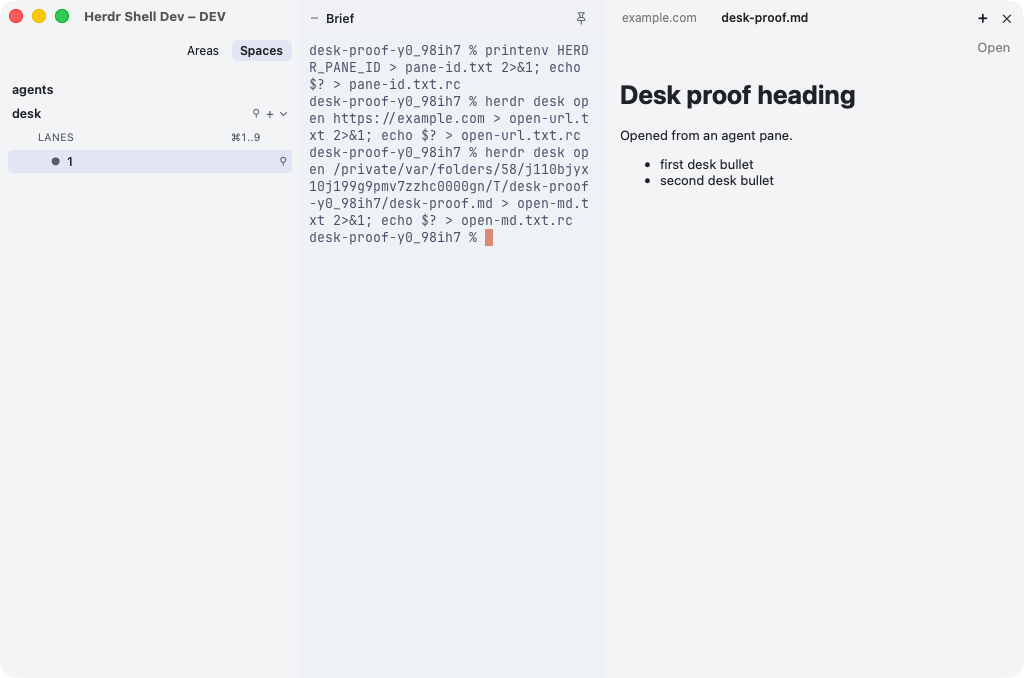
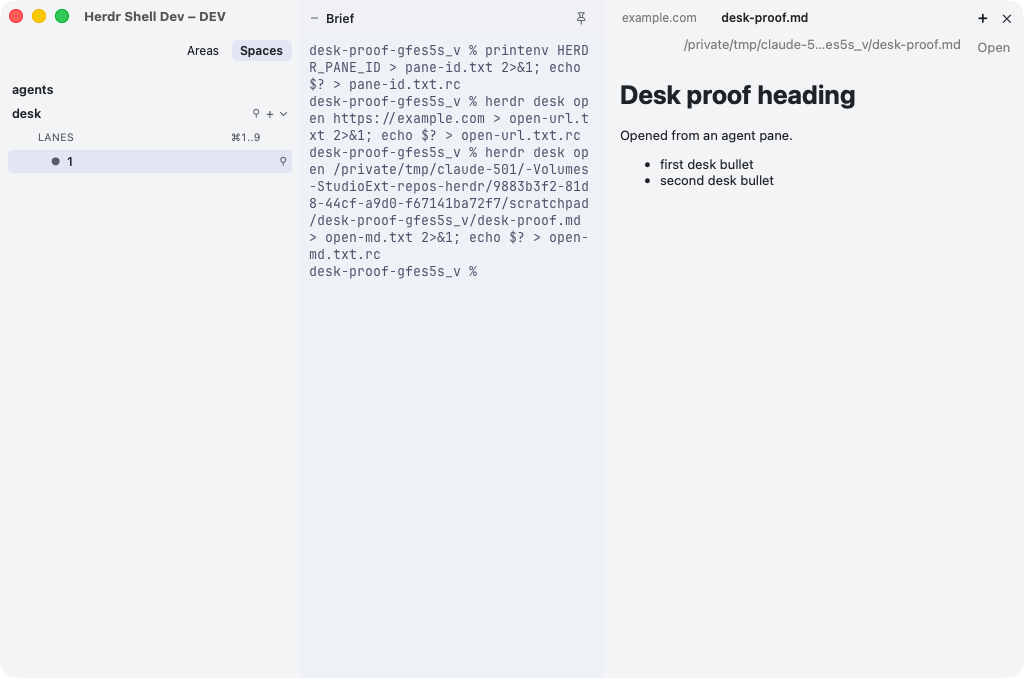
fix(shell): desk landings count per machine, handoff keeps pane focus, and file items show their path
A remote machine's first snapshot no longer opens docs for desks it
already had. A live handoff that renews a focused pane's terminal gives
focus to its replacement. File items show their path in the header, Open
waits for remote bytes, and the space check requires a hosted live
surface, rendered heading and list, and focus after handoff.

diff --git a/macos/HerdrShell/Sources/HerdrShell/DocPanel.swift b/macos/HerdrShell/Sources/HerdrShell/DocPanel.swift
@@ -27,6 +27,10 @@ final class DocPanelController: NSObject, WKNavigationDelegate {
     private let empty = NSTextField(labelWithString: "")
     private let urlField = DocURLField()
     private let address = DocURLField()
+    private let filePath = NSTextField(labelWithString: "")
+    private var renderedHeadings: [String] = []
+    private var renderedListItems: [String] = []
+    private var pendingOpenKey: String?
     private let web: DocWebView
     private var tabButtons: [NSButton] = []
     private var docs: [DocItem] = []
@@ -83,6 +87,13 @@ final class DocPanelController: NSObject, WKNavigationDelegate {
         urlField.target = self
         urlField.action = #selector(commitURL)
         urlField.onEscape = { [weak self] in self?.returnFocus() }
+        filePath.font = address.font
+        filePath.textColor = .secondaryLabelColor
+        filePath.lineBreakMode = .byTruncatingMiddle
+        filePath.isSelectable = true
+        filePath.isEditable = false
+        filePath.alignment = .left
+        filePath.isHidden = true
         address.isHidden = true
         address.placeholderString = "Address"
         address.target = self
@@ -113,6 +124,7 @@ final class DocPanelController: NSObject, WKNavigationDelegate {
         view.addSubview(empty)
         view.addSubview(urlField)
         view.addSubview(address)
+        view.addSubview(filePath)
         view.addSubview(back)
         view.addSubview(forward)
         view.addSubview(reload)
@@ -136,7 +148,8 @@ final class DocPanelController: NSObject, WKNavigationDelegate {
     func dump() -> [String: Any] {
         ["tabs": tabTitles, "active": active ?? NSNull(), "title": pageTitle, "text": pageText,
          "url": address.stringValue, "address_focused": address.currentEditor() != nil,
-         "focused": hasFocus]
+         "focused": hasFocus, "file_path": filePath.stringValue,
+         "h1": renderedHeadings, "li": renderedListItems]
     }
 
     var hasFocus: Bool {
@@ -228,9 +241,19 @@ final class DocPanelController: NSObject, WKNavigationDelegate {
         forward.isHidden = !chrome
         reload.isHidden = !chrome
         address.isHidden = !chrome
+        let path = docs.first(where: { $0.key == activeKey })?.path
+        filePath.isHidden = chrome || path == nil
+        if let path {
+            let home = NSHomeDirectory()
+            filePath.stringValue = path == home ? "~" : (path.hasPrefix(home + "/") ? "~" + String(path.dropFirst(home.count)) : path)
+        }
         openBrowser.isHidden = docs.isEmpty
         var y = bar
-        if !chrome { openBrowser.frame = NSRect(x: bounds.width - 52, y: y, width: 44, height: 22); y += 26 }
+        if !chrome {
+            openBrowser.frame = NSRect(x: bounds.width - 52, y: y, width: 44, height: 22)
+            filePath.frame = NSRect(x: 78, y: y, width: max(40, openBrowser.frame.minX - 86), height: 22)
+            y += 26
+        }
         if chrome {
             back.frame = NSRect(x: 8, y: y, width: 22, height: 22)
             forward.frame = NSRect(x: 30, y: y, width: 22, height: 22)
@@ -250,6 +273,8 @@ final class DocPanelController: NSObject, WKNavigationDelegate {
     // MARK: loading
 
     private func loadActive() {
+        pendingOpenKey = nil
+        renderedHeadings = []; renderedListItems = []
         guard let item = docs.first(where: { $0.key == activeKey }) ?? docs.first else {
             readGeneration += 1
             readInFlight = false
@@ -321,9 +346,13 @@ final class DocPanelController: NSObject, WKNavigationDelegate {
             address.stringValue = current
         }
         if !web.allowFocus { returnFocus() }
-        webView.evaluateJavaScript("document.body ? document.body.innerText : ''") { [weak self] value, _ in
-            self?.pageText = value as? String ?? ""
-            if self?.pageTitle.isEmpty == true { self?.pageTitle = webView.title ?? "" }
+        let generation = readGeneration
+        webView.evaluateJavaScript("({text: document.body ? document.body.innerText : '', h1: Array.from(document.querySelectorAll('h1'), e => e.innerText), li: Array.from(document.querySelectorAll('li'), e => e.innerText)})") { [weak self] value, _ in
+            guard let self, generation == self.readGeneration, let facts = value as? [String: Any] else { return }
+            self.pageText = facts["text"] as? String ?? ""
+            self.renderedHeadings = facts["h1"] as? [String] ?? []
+            self.renderedListItems = facts["li"] as? [String] ?? []
+            if self.pageTitle.isEmpty { self.pageTitle = webView.title ?? "" }
         }
     }
 
@@ -383,6 +412,12 @@ final class DocPanelController: NSObject, WKNavigationDelegate {
             let generation = readGeneration, row = rowId, id = item.deskId
             let data = fileData
             let remote = row.map(Machines.isRemote) == true
+            if data == nil && (remote || !FileManager.default.fileExists(atPath: path)), item.deskId != nil {
+                pendingOpenKey = item.key
+                readDeskFile(item)
+                return
+            }
+            pendingOpenKey = nil
             DispatchQueue.global(qos: .utility).async { [weak self] in
                 do {
                     let url: URL
@@ -600,6 +635,10 @@ final class DocPanelController: NSObject, WKNavigationDelegate {
 
     private func renderFile(_ data: Data, mime: String, item: DocItem) {
         fileData = data
+        if pendingOpenKey == item.key {
+            pendingOpenKey = nil
+            openOutside()
+        }
         let base = item.path.map { URL(fileURLWithPath: $0).deletingLastPathComponent() }
         if mime == "text/markdown" {
             web.loadHTMLString(MiniMarkdown.html(String(data: data, encoding: .utf8) ?? "", title: item.title), baseURL: base)

diff --git a/macos/HerdrShell/Sources/HerdrShell/MainWindow.swift b/macos/HerdrShell/Sources/HerdrShell/MainWindow.swift
@@ -478,8 +478,10 @@ final class MainWindowController: NSObject, NSWindowDelegate {
     private func refreshDocs() {
         let snapshots = [model.snapshot].compactMap { $0 } + model.machines.compactMap(\.snapshot)
         if !snapshots.isEmpty {
-            let desks = Dictionary(uniqueKeysWithValues: snapshots.flatMap(\.tabs).map { ($0.tab_id, $0.desk ?? .empty) })
-            let newTabs = landed(previous: seenDeskIds, current: desks)
+            let desks = Dictionary(snapshots.flatMap(\.tabs).map { ($0.tab_id, $0.desk ?? .empty) },
+                                   uniquingKeysWith: { _, latest in latest })
+            let newTabs = landed(previous: seenDeskIds, current: desks,
+                                 machineForTab: { Machines.split($0)?.machine ?? "" })
             seenDeskIds = desks.mapValues { Set($0.items.map(\.id)) }
             for tab in newTabs { SidebarState.store.set(true, forKey: Self.docsShownKey(tab)) }
             docPanel.show(model: model, tabId: state.selectedTab)
@@ -575,6 +577,11 @@ final class MainWindowController: NSObject, NSWindowDelegate {
             + "|" + shown.compactMap { model.pane($0.pane_id)?.terminal_id }.joined(separator: ",")
         guard key != lastLayoutKey else { applyCaps(); return }
         lastLayoutKey = key
+        // Capture actual keyboard ownership before terminal replacement removes the old view.
+        let responder = window.firstResponder as? NSView
+        let focusedPane = host.rects.first { surface, _ in
+            responder === surface || (responder?.isDescendant(of: surface) ?? false)
+        }?.0.paneId
         var items: [(SurfaceView, Snapshot.Rect)] = []
         for lp in shown {
             guard let p = model.pane(lp.pane_id) else { continue }
@@ -585,6 +592,9 @@ final class MainWindowController: NSObject, NSWindowDelegate {
         // Splits on another machine are not dragged from here: a resize in flight could outlive the selection.
         host.show(items, area: layout.area, dividers: zoomedPane == nil && !Machines.isRemote(tab) ? PaneDivider.from(layout) : [])
         applyPendingFocus()
+        if let focusedPane, let replacement = items.first(where: { $0.0.paneId == focusedPane })?.0 {
+            window.makeFirstResponder(replacement)
+        }
         applyVisibility()
         applyCaps()
     }

diff --git a/macos/HerdrShell/Sources/HerdrShell/DeskModel.swift b/macos/HerdrShell/Sources/HerdrShell/DeskModel.swift
@@ -16,10 +16,15 @@ struct DeskInfo: Codable, Equatable {
     static let empty = DeskInfo(items: [], front: nil)
 }
 
-func landed(previous: [String: Set<String>]?, current: [String: DeskInfo]) -> Set<String> {
+func landed(previous: [String: Set<String>]?, current: [String: DeskInfo],
+            machineForTab: (String) -> String = { id in
+                id.firstIndex(of: "/").map { String(id[..<$0]) } ?? ""
+            }) -> Set<String> {
     guard let previous else { return [] }
+    let seenMachines = Set(previous.keys.map(machineForTab))
     return Set(current.compactMap { tab, desk in
-        Set(desk.items.map(\.id)).subtracting(previous[tab] ?? []).isEmpty ? nil : tab
+        guard seenMachines.contains(machineForTab(tab)) else { return nil }
+        return Set(desk.items.map(\.id)).subtracting(previous[tab] ?? []).isEmpty ? nil : tab
     })
 }
 

diff --git a/macos/HerdrShell/Sources/HerdrShell/HerdrClient.swift b/macos/HerdrShell/Sources/HerdrShell/HerdrClient.swift
@@ -351,7 +351,7 @@ struct HerdrCommands {
             log("\(method): \(error)")
             return .failed
         }
-        guard let result = envelope["result"] as? [String: Any] else { return .unsupported }
+        guard let result = envelope["result"] as? [String: Any] else { return .failed }
         return .result(result)
     }
 

diff --git a/macos/HerdrShell/scripts/check_desk_space.py b/macos/HerdrShell/scripts/check_desk_space.py
@@ -203,7 +203,10 @@ def main():
     check("the md item renders: heading and list text in the docs web view",
           HEADING in docs.get("text", "") and all(b in docs.get("text", "") for b in BULLETS),
           f"text={docs.get('text', '')[:120]!r}")
-    check("the rendered md is html, not the raw source", "# " + HEADING not in docs.get("text", ""))
+    check("the rendered md is html, not the raw source",
+          bool(docs.get("text", "").strip()) and HEADING in docs.get("h1", [])
+          and all(b in docs.get("li", []) for b in BULLETS)
+          and "# " + HEADING not in docs.get("text", ""), json.dumps(docs))
     shot("md")
 
     # 3. herdr desk list from the pane
@@ -215,6 +218,14 @@ def main():
     check("herdr desk list prints both items, the md one marked front (*)",
           rc == 0 and len(rows) == 2 and url_id in rows[0] and md_id in rows[1]
           and "*" in rows[1] and "*" not in rows[0], text.strip()[:200])
+
+    # Keyboard focus must survive a new terminal key, not merely attach output.
+    S.cmd({"cmd": "mouse", "pane": pane, "action": "down", "col": 2, "row": 2})
+    S.cmd({"cmd": "mouse", "pane": pane, "action": "up", "col": 2, "row": 2})
+    state = wait(lambda s: any(v.get("pane") == pane and v.get("first_responder") is True
+                             for v in s.get("surfaces", [])), 10)
+    check("the agent pane has keyboard focus before handoff",
+          any(v.get("pane") == pane and v.get("first_responder") is True for v in state.get("surfaces", [])))
 
     # 4. live handoff of the isolated server
     before = server_desk(tab)
@@ -245,7 +256,8 @@ def main():
 
     def reattached(s):
         view = next((v for v in s.get("surfaces", []) if v.get("terminal") == terminal), {})
-        return view.get("pane") == pane and any(l.strip() == "handoff-ok-42" for l in view.get("visible_nonblank", []))
+        return (view.get("pane") == pane and view.get("in_host") is True
+                and view.get("exited") is False) and any(l.strip() == "handoff-ok-42" for l in view.get("visible_nonblank", []))
 
     # Arithmetic so the typed line never matches the output line, even when it wraps.
     S.lab("herdr", "pane", "run", pane, "echo handoff-ok-$((40+2))")
@@ -253,6 +265,9 @@ def main():
     state = wait(reattached, 20)
     check("the Shell re-attached the pane to its post-handoff terminal and shows new output", reattached(state),
           f"server terminal={terminal} surfaces={[(v.get('terminal'), (v.get('visible_nonblank') or [''])[-1][:40]) for v in state.get('surfaces', [])]}")
+    check("the focused pane replacement is first responder after handoff",
+          any(v.get("pane") == pane and v.get("terminal") == terminal and v.get("in_host") is True
+              and v.get("exited") is False and v.get("first_responder") is True for v in state.get("surfaces", [])))
     state = wait(lambda s: [i.get("id") for i in desk_view(s).get("items", [])] == [url_id, md_id]
                  and desk_view(s).get("active_item") == md_id and HEADING in doc_text(s), 30)
     check("the Shell still shows both desk items after reconnect, md active",

diff --git a/macos/HerdrShell/scripts/check_desk_model.py b/macos/HerdrShell/scripts/check_desk_model.py
@@ -21,6 +21,12 @@ case("server front changed", {"a": ["d1", "d2"]}, {"a": desk(["d1", "d2"], "d2")
 case("user active kept", {"a": ["d1", "d2"]}, {"a": desk(["d1", "d2"], "d1")}, "d1", "d2", [], "d2")
 case("removed active follows front", {"a": ["d1", "d2"]}, {"a": desk(["d1"], "d1")}, "d1", "d2", [], "d1")
 case("empty desk", {"a": ["d1"]}, {"a": desk([], None)}, "d1", "d1", [], None)
+case("remote first snapshot opens nothing", {"a": ["d1"]},
+     {"a": desk(["d1"], "d1"), "ax42/w1:t2": desk(["r1"], "r1")},
+     None, None, [], "r1", tab="ax42/w1:t2")
+case("new remote item lands", {"a": ["d1"], "ax42/w1:t2": ["r1"]},
+     {"a": desk(["d1"], "d1"), "ax42/w1:t2": desk(["r1", "r2"], "r2")},
+     "r1", "r1", ["ax42/w1:t2"], "r2", tab="ax42/w1:t2")
 source = (root / "Sources/HerdrShell/DeskModel.swift").read_text() + (root / "scripts/desk_model_dump.swift").read_text()
 # Source is supplied to `swift -`; table data travels on stdin through a file
 # argument so the interpreter does not consume both source and data from stdin.
@@ -33,7 +39,7 @@ if result.returncode:
     raise SystemExit(result.stderr)
 actual = [json.loads(line) for line in result.stdout.splitlines()]
 assert actual == [expected for _, expected in cases], (actual, cases)
-summary = "DESK MODEL: PASS (7 transition cases, Swift interpreter)\n" + "\n".join("PASS " + c[0]["name"] for c in cases) + "\n"
+summary = f"DESK MODEL: PASS ({len(cases)} transition cases, Swift interpreter)\n" + "\n".join("PASS " + c[0]["name"] for c in cases) + "\n"
 (root / "checks").mkdir(exist_ok=True)
 (root / "checks/DESK-MODEL.txt").write_text(summary)
 print(summary, end="")
